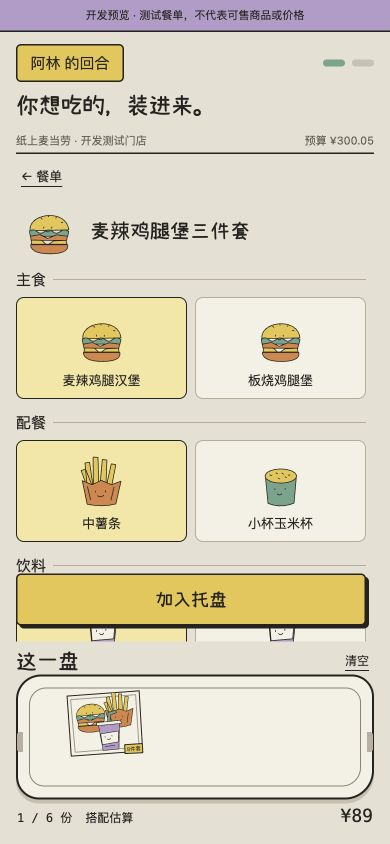
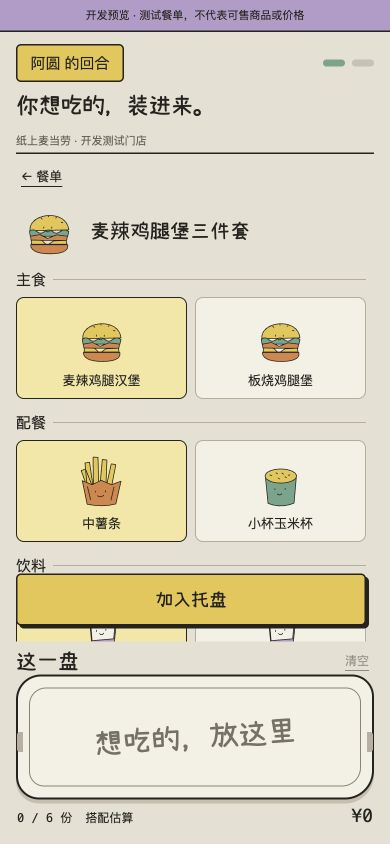
Refine cover and photo tools; refresh contest presentation

diff --git a/public/style.css b/public/style.css
@@ -35,7 +35,6 @@ body.in-game .site-foot{display:none}.combo-choices{display:grid;grid-template-c
 @media(max-width:699px){body.in-game .masthead{padding:4px 0}.catalog-selection .screen-head h1{font-size:23px}.catalog-selection .store-caption{margin:3px 0}.catalog-scroll{height:max(260px,calc(100dvh - 400px))}.catalog-editor{height:max(300px,calc(100dvh - 360px))}.catalog-builder .serving-tray{height:125px}.catalog-builder .tray-topline{height:28px;min-height:28px}.catalog-builder .tray-piece{width:76px;height:76px}.catalog-builder .bundle-piece{width:85px;height:85px}.catalog-builder .tray-feedback{min-height:18px}.catalog-selection .action-dock .button{min-height:44px;padding:9px}.catalog-cell .food-title{font-size:14px}.catalog-cell,.catalog-cell .food-tile{min-height:155px}}
 @media(max-height:560px){.catalog-scroll,.catalog-editor{height:320px}.catalog-builder .tray-table{position:static}}
 .head-controls{max-width:540px;margin:12px auto}.head-controls button{min-height:44px;padding:6px 12px;border:1px solid var(--ink);border-radius:5px;background:var(--white);color:var(--ink)}.head-controls .button-row{flex-wrap:wrap;margin:8px 0;gap:6px}#hat-options{display:flex;flex-wrap:wrap;gap:8px;align-items:center}#hat-options label{display:flex;gap:8px;align-items:center;font-size:13px}#hat-options select{max-width:220px;min-height:44px}#hat-options input{min-height:44px}.crop-wrap{max-width:430px}.crop-surface{width:min(100%,calc(55dvh * .94));height:auto;max-height:none;margin-inline:auto}.preview-actions>.button-row:first-child{position:sticky;bottom:0;background:var(--paper);padding:8px 0 max(8px,env(safe-area-inset-bottom));z-index:2}.preview-actions>.button-row{margin:8px 0}.preview-actions details{padding:8px 0}.preview-actions summary{min-height:44px;cursor:pointer}.photo-heading{padding:12px 0}.photo-heading h1{font-size:30px}
-.crop-surface{width:min(100%,calc(55dvh * .94));height:auto;max-height:none;margin:auto}
 .just-added{animation:tray-arrival 180ms ease-out}@keyframes tray-arrival{from{opacity:.2;scale:.7}to{opacity:1;scale:1}}@media(prefers-reduced-motion:reduce){.just-added{animation:none}}
 .head-controls button[aria-pressed=true]{background:var(--yellow);border:2px solid var(--ink)}section:has(#crop) .action-dock{position:static;padding:12px 0}.preview-actions{position:sticky;bottom:0;z-index:5;background:var(--paper);padding:6px 0 max(6px,env(safe-area-inset-bottom))}.preview-actions>.button-row:first-child{position:static}.preview-actions details{padding:0}.preview-actions summary{min-height:44px;text-align:center;list-style-position:inside}
 body.in-game .wordmark{visibility:hidden}.catalog-selection.configuring .action-dock{display:none}.combo-form>button[type=submit]{position:sticky;bottom:0;z-index:2}.catalog-builder .tray-feedback:empty{min-height:18px}
@@ -63,3 +62,37 @@ body.in-game .wordmark{visibility:hidden}.catalog-selection.configuring .action-
 #about{display:none}body.in-game .masthead{display:none}
 
 .welcome .game-title{font-size:clamp(56px,10vw,86px);letter-spacing:.02em;line-height:1.2}.welcome .game-title .title-mark{margin-left:.12em}
+
+/* Keep photo tools on the same measure as the photograph. */
+.head-controls{max-width:430px}.head-controls>.button-row{display:grid;grid-template-columns:repeat(4,minmax(0,1fr));gap:8px}.head-controls>.button-row:last-child{grid-template-columns:repeat(2,minmax(0,1fr))}.head-controls button{overflow-wrap:anywhere}.head-controls button[aria-pressed=true]{box-shadow:2px 2px 0 var(--ink)}
+#hat-options{display:grid;grid-template-columns:repeat(2,minmax(0,1fr));gap:8px 12px;padding:12px 0}#hat-options:empty{display:none}#hat-options>label{display:flex;min-width:0;gap:8px;white-space:nowrap}#hat-options>label:first-child{grid-column:1/-1}#hat-options select{flex:1;min-width:0;max-width:none;border:1px solid var(--ink);border-radius:4px;background:var(--white);padding:0 8px}#hat-options input{flex:1;width:0;min-width:0;accent-color:var(--ink)}#hat-options>button{background:transparent}
+.crop-controls{padding:8px 0 0;gap:8px}.crop-controls>label{font-size:14px}.crop-controls>input{min-width:60px}.crop-controls>.text-button{font-size:13px}.nudge-controls{gap:6px;margin-top:4px}.nudge-controls button{width:44px}
+.photo-heading{max-width:430px;margin:auto;text-align:left;padding:16px 0 12px}.preview-image{margin-bottom:16px}.preview-actions{max-width:440px}.preview-actions>.button-row{gap:10px}.preview-actions details{border-top:1px solid #25231f35;margin-top:4px}
+@media(max-width:430px){.head-controls{margin:10px auto}.head-controls button{padding:6px 8px;font-size:14px}.crop-wrap{padding:10px}.photo-heading h1{font-size:24px}.photo-choice .button-row{flex-direction:column}.site-foot{font-size:11px;gap:12px;align-items:baseline}.welcome-meta{margin-top:14px}.welcome-copy{margin:12px 0 18px}}
+
+/* A single title leads the cover; the two trays do the explaining. */
+body:not(.in-game) .masthead{display:none}
+body:not(.in-game) main{min-height:0}
+.welcome .game-title{white-space:nowrap}
+@media(max-width:649px){
+ .welcome{display:flex;flex-direction:column;align-items:center;padding:30px 0 8px}
+ .welcome .eyebrow{order:0;margin:0 0 14px;font-size:14px}
+ .welcome .game-title{order:1;font-size:clamp(52px,15vw,72px)}
+ .welcome-copy{order:2;font-size:17px;line-height:1.5;margin:16px 0 4px}
+ .welcome-copy br{display:none}
+ .welcome .tray-cover{order:3;width:100%;height:280px;max-width:340px;margin:24px auto 16px}
+ .tray-cover .cover-tray{width:72%;left:3%;top:14px}
+ .tray-cover .cover-tray:nth-child(2){right:2%;top:101px}
+ .tray-cover .cover-star{right:3%;top:26px;font-size:38px}
+ .welcome>.button{order:4;width:100%;max-width:340px;min-height:56px;font-size:23px}
+ .welcome-meta{order:5;margin:16px 0 0;font-size:12px}
+ body:not(.in-game) .site-foot{margin-top:24px;padding:18px 0;justify-content:center;flex-wrap:wrap}
+}
+@media(min-width:650px){
+ .welcome{padding:48px 0 24px;grid-template-areas:"eyebrow art" "title art" "copy art" "button art" "meta art";row-gap:0}
+ .welcome .game-title{font-size:70px}
+ .welcome .eyebrow{margin-bottom:18px}
+ .welcome .tray-cover{height:330px}
+ .welcome-meta{margin:18px 0 0;padding:0;text-align:left}
+ body:not(.in-game) .site-foot{margin-top:26px}
+}

diff --git a/SUBMISSION.md b/SUBMISSION.md
@@ -1,5 +1,16 @@
 【参赛申请】
 项目名称：点头之交
 项目地址：https://github.com/chenjinnan82-stack/mcd-guess-my-order
-项目简介：猜你点什么，就知道有多熟。两个人共用一部手机，把自己想吃的放进托盘，再猜朋友会点什么。基于麦当劳 MCP 查询真实门店、可售菜单、套餐换配和价格；轮流封存答案，一起揭晓主餐、配餐和饮料是否猜中，最后生成带餐单的双人合影卡。支持单品与套餐自由搭配，无需注册游戏账号，照片在本机处理、不上传。
+项目简介：猜你点什么，就知道有多熟。两个人共用一部手机，用麦当劳真实门店餐单搭配自己的托盘，再猜朋友会点什么。单品与套餐自由搭配，轮流封存、一起揭晓；最后戴上餐盘里的手绘食物头套，留下一张双人合影。麦当劳 MCP 提供门店、菜单、套餐选项及核价，游戏无需注册，照片与头套定位均在本机处理、不上传。
 体验地址：https://sanliang.online/lab/play/guess-my-order/
+
+### 作品画面
+以下界面使用明确标记的开发测试餐单；合影为合成测试图，不含真人照片。
+
+![点头之交 · 首页](https://raw.githubusercontent.com/chenjinnan82-stack/mcd-guess-my-order/main/docs/home-mobile.jpg)
+
+![套餐先搭配，再加入托盘](https://raw.githubusercontent.com/chenjinnan82-stack/mcd-guess-my-order/main/docs/combo.jpg)
+
+![食物头套合影](https://raw.githubusercontent.com/chenjinnan82-stack/mcd-guess-my-order/main/docs/photo-card.png)
+
+项目更名说明：原名“你以为我会点什么”，本次更新名称、介绍与展示材料，仓库及体验地址不变。

diff --git a/HANDOFF.MD b/HANDOFF.MD
@@ -92,3 +92,8 @@
 - 网址、仓库slug、session key保持原值，原链接与在局恢复不受影响。官方历史报名Issue不作重提。
 - 重建小赖字体子集和SVG路径文字分享封面，公开合影/预览样例重新生成，仅使用合成图。浏览器确认正式标题与主句，实际下载文件名点头之交.png。
 - v5增量更新游戏静态文件；网站只替换lab.html游戏名称/说明与封面，同时更新build.py生成源。无后端重启；回滚游戏v4j与网站原release即可。23项开源检查通过，密钥扫描通过。
+
+## 首页与展示材料 v5a · 2026-10-24
+- 用户明确首页为排版重点。删除重复顶栏、装饰问号与重复短句；手机按标题、slogan、双托盘、开始按钮排列，桌面保持左右构图。375px/390px及1280px浏览器检查，无横向溢出；这不是手机触摸验收。
+- 合影工具与照片同宽，玩家切换等宽，头套控件两列；选择头套时隐藏不适用的照片缩放行。没有修改头套手势与导出绘制逻辑。
+- 生产22项、公开23项检查通过；仅静态文件增量发布，无新依赖、上游请求或后端重启。截图仅使用开发餐单及合成照片。

diff --git a/README.md b/README.md
@@ -17,7 +17,11 @@
 - **猜的是朋友的选择**：双方使用同一份餐单，逐项比较主餐、配餐和饮料；不编造默契分数或人格标签。
 - **留一张合影餐单**：本机自动放置保留真人表情的食物头套，可移动、缩放、旋转、交换和切换滤镜，再保存大头贴。
 
-![托盘选餐界面，图中为明确标记的开发测试餐单](docs/menu.jpg)
+![点头之交首页（开发预览）](docs/home-mobile.jpg)
+
+![套餐搭配（开发测试餐单）](docs/combo.jpg)
+
+![食物头套编辑（合成测试图）](docs/photo-editor.jpg)
 
 图中餐单仅用于开发演示，不代表真实可售商品或报价。体验站独立维护，开源版界面以本仓库为准。
 
